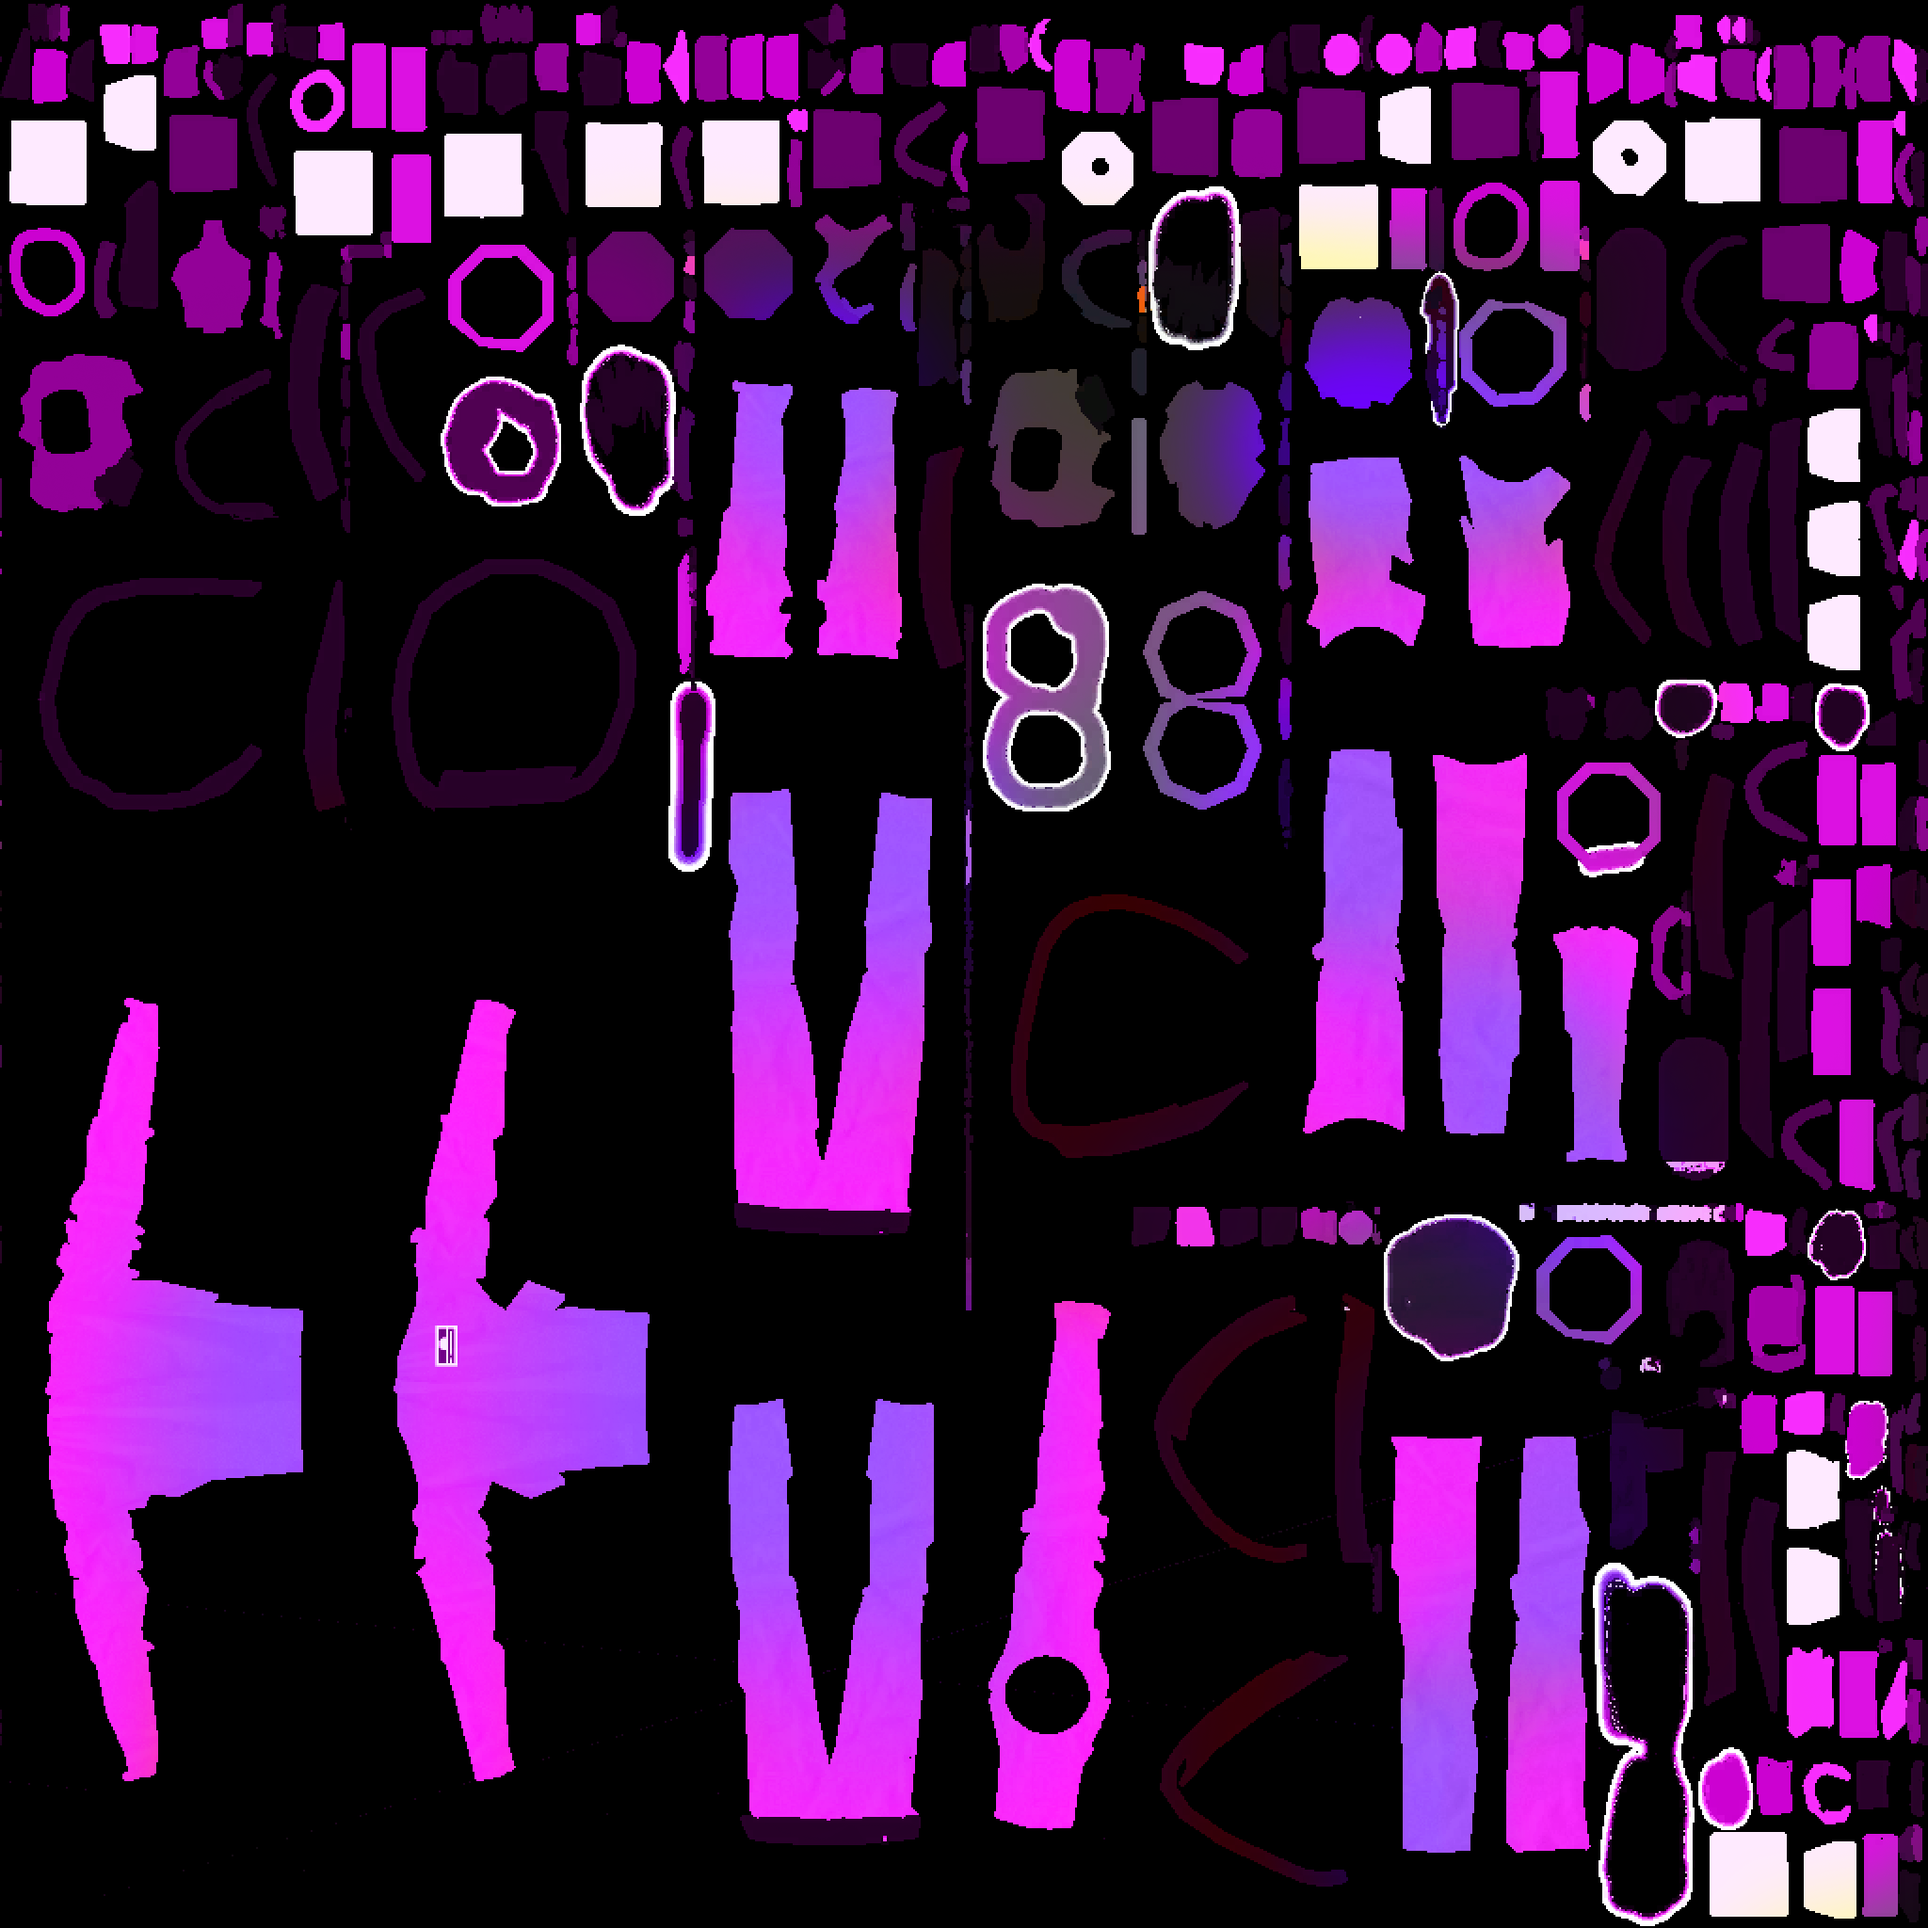
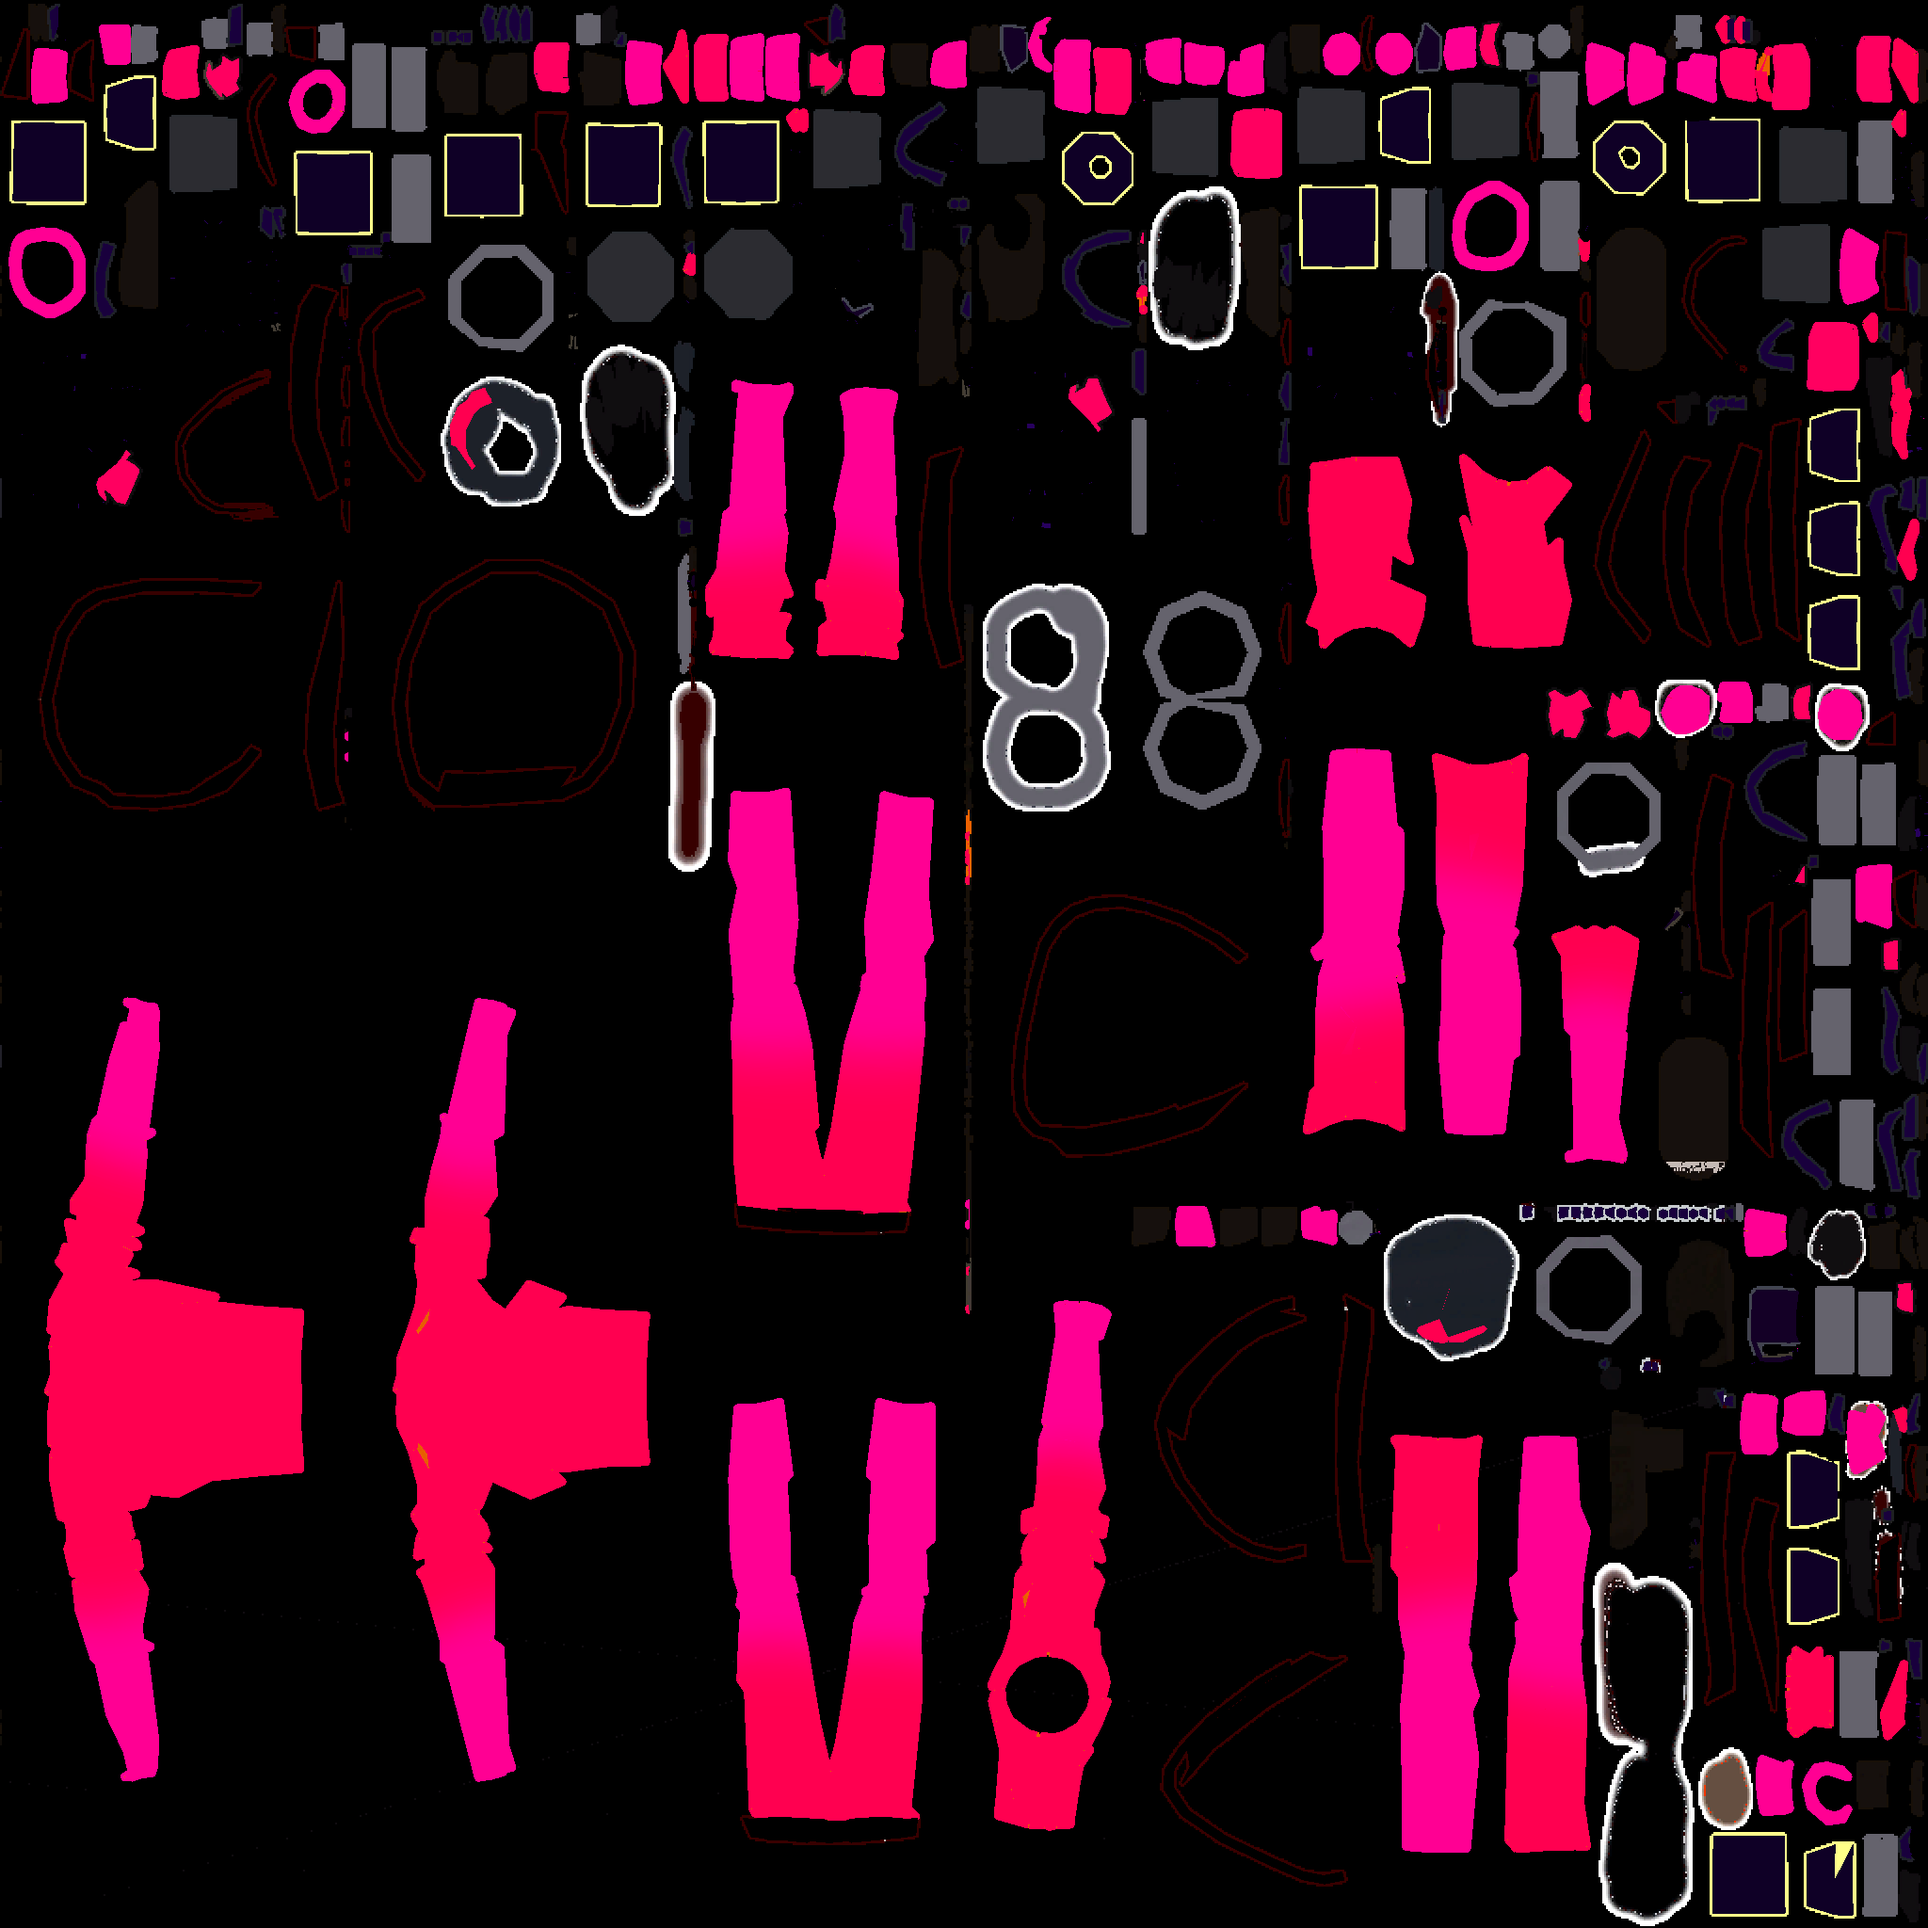
New Ellie Suit

diff --git a/CHANGELOG.md b/CHANGELOG.md
@@ -1,2 +1,8 @@
 ## v0.1
 - Added Ellie Suit
+
+## v0.1.3
+-Tried to fix the folder issue
+
+## v0.1.4
+- New Ellie Suit

diff --git a/README.md b/README.md
@@ -1,2 +1,2 @@
-# Bearness Suits v0.1
+# Bearness Suits v0.1.3
 ### Suits for Claire and the Bear
